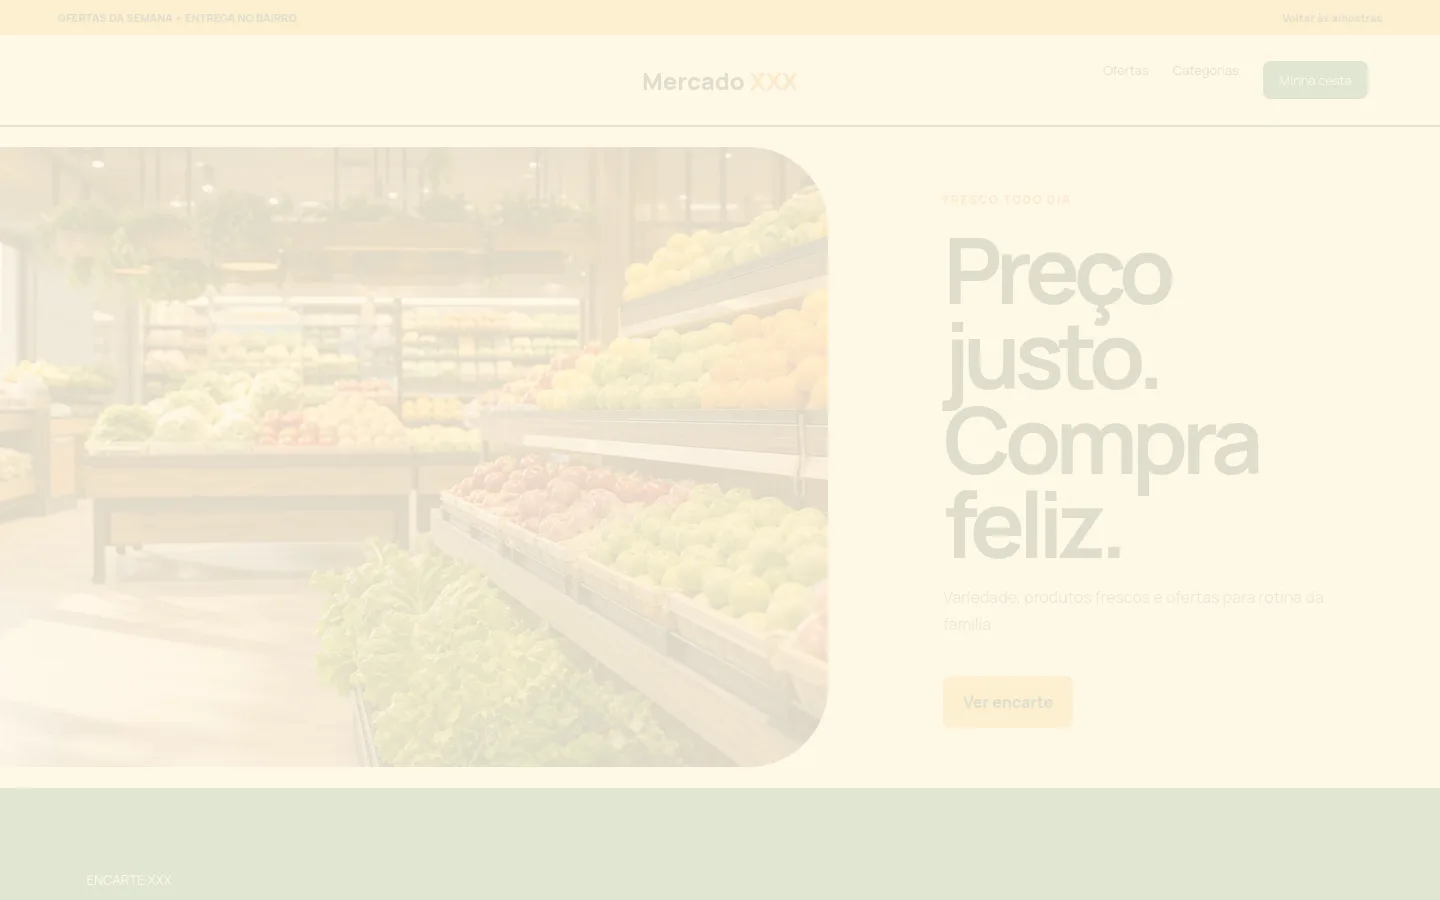
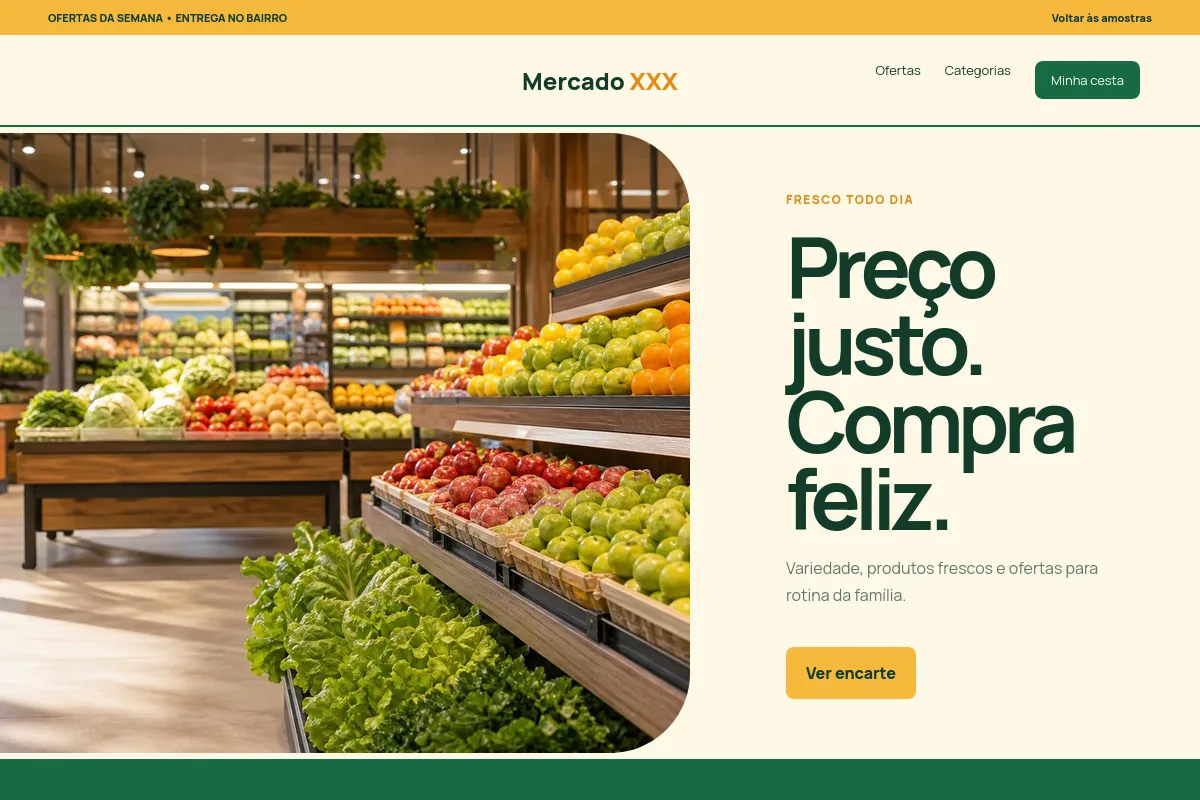
fix: restore sample previews

diff --git a/amostras.html b/amostras.html
@@ -28,7 +28,7 @@
     <section class="grade" aria-label="Amostras disponíveis">
       <article class="cartao cartao--advocacia">
         <div class="cartao__visual">
-          <img src="public/assets/images/samples/previews/advocacia.webp" alt="Prévia animada do site Advocacia XXX" loading="lazy" />
+          <img src="public/assets/images/samples/previews/advocacia.webp?v=2" alt="Prévia animada do site Advocacia XXX" loading="lazy" />
         </div>
         <div class="cartao__conteudo">
           <span class="cartao__tipo">Advocacia</span>
@@ -40,7 +40,7 @@
 
       <article class="cartao cartao--petshop">
         <div class="cartao__visual">
-          <img src="public/assets/images/samples/previews/petshop.webp" alt="Prévia animada do site Pet Shop XXX" loading="lazy" />
+          <img src="public/assets/images/samples/previews/petshop.webp?v=2" alt="Prévia animada do site Pet Shop XXX" loading="lazy" />
         </div>
         <div class="cartao__conteudo">
           <span class="cartao__tipo">Pet shop</span>
@@ -51,27 +51,27 @@
       </article>
 
       <article class="cartao cartao--mercado">
-        <div class="cartao__visual"><img src="public/assets/images/samples/previews/mercado.webp" alt="Prévia animada do site Mercado XXX" loading="lazy" /></div>
+        <div class="cartao__visual"><img src="public/assets/images/samples/previews/mercado.webp?v=2" alt="Prévia animada do site Mercado XXX" loading="lazy" /></div>
         <div class="cartao__conteudo"><span class="cartao__tipo">Mercado</span><h2>Mercado XXX</h2><p>Vitrine para ofertas, departamentos, serviços e informações de atendimento.</p><a href="demos/mercado.html">Abrir demonstração <span>↗</span></a></div>
       </article>
 
       <article class="cartao cartao--clinica">
-        <div class="cartao__visual"><img src="public/assets/images/samples/previews/clinica.webp" alt="Prévia animada do site Clínica XXX" loading="lazy" /></div>
+        <div class="cartao__visual"><img src="public/assets/images/samples/previews/clinica.webp?v=2" alt="Prévia animada do site Clínica XXX" loading="lazy" /></div>
         <div class="cartao__conteudo"><span class="cartao__tipo">Saúde</span><h2>Clínica XXX</h2><p>Apresentação acolhedora para especialidades, equipe e agendamento de consultas.</p><a href="demos/clinica.html">Abrir demonstração <span>↗</span></a></div>
       </article>
 
       <article class="cartao cartao--restaurante">
-        <div class="cartao__visual"><img src="public/assets/images/samples/previews/restaurante.webp" alt="Prévia animada do site Restaurante XXX" loading="lazy" /></div>
+        <div class="cartao__visual"><img src="public/assets/images/samples/previews/restaurante.webp?v=2" alt="Prévia animada do site Restaurante XXX" loading="lazy" /></div>
         <div class="cartao__conteudo"><span class="cartao__tipo">Gastronomia</span><h2>Restaurante XXX</h2><p>Experiência visual para cardápio, reservas e apresentação do ambiente.</p><a href="demos/restaurante.html">Abrir demonstração <span>↗</span></a></div>
       </article>
 
       <article class="cartao cartao--academia">
-        <div class="cartao__visual"><img src="public/assets/images/samples/previews/academia.webp" alt="Prévia animada do site Academia XXX" loading="lazy" /></div>
+        <div class="cartao__visual"><img src="public/assets/images/samples/previews/academia.webp?v=2" alt="Prévia animada do site Academia XXX" loading="lazy" /></div>
         <div class="cartao__conteudo"><span class="cartao__tipo">Fitness</span><h2>Academia XXX</h2><p>Layout energético para modalidades, estrutura, planos e aula experimental.</p><a href="demos/academia.html">Abrir demonstração <span>↗</span></a></div>
       </article>
 
       <article class="cartao cartao--imobiliaria">
-        <div class="cartao__visual"><img src="public/assets/images/samples/previews/imobiliaria.webp" alt="Prévia animada do site Imobiliária XXX" loading="lazy" /></div>
+        <div class="cartao__visual"><img src="public/assets/images/samples/previews/imobiliaria.webp?v=2" alt="Prévia animada do site Imobiliária XXX" loading="lazy" /></div>
         <div class="cartao__conteudo"><span class="cartao__tipo">Imóveis</span><h2>Imobiliária XXX</h2><p>Site para busca de imóveis, apresentação de serviços e contato comercial.</p><a href="demos/imobiliaria.html">Abrir demonstração <span>↗</span></a></div>
       </article>
     </section>

diff --git a/src/css/transicoes.css b/src/css/transicoes.css
@@ -1,5 +1,5 @@
 body {
-  animation: paginaEntrar 0.55s cubic-bezier(.22, 1, .36, 1) both;
+  animation: none;
 }
 
 body::after {
